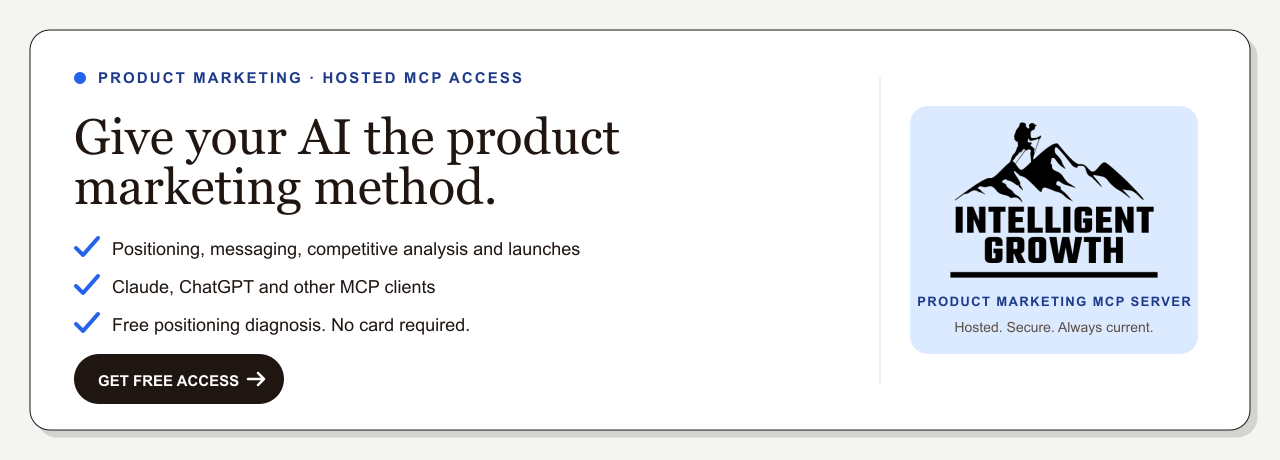
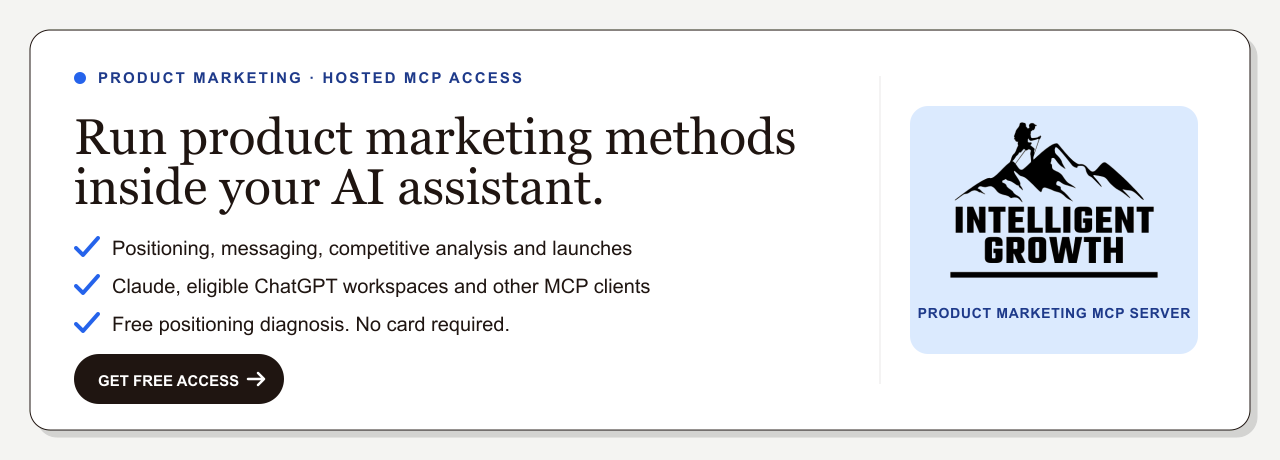
docs: clarify access and protected method boundary

diff --git a/README.md b/README.md
@@ -1,4 +1,4 @@
-# Intelligent Growth Product Marketing MCP Server
+# Intelligent Growth product marketing MCP server
 
 <p align="center">
   <a href="https://intelligentgrowth.app/mcp?utm_source=github&utm_medium=referral&utm_campaign=mcp_public_repo&utm_content=readme_banner">
@@ -14,38 +14,13 @@ Bring the homepage, customer evidence, launch brief or competitor set already on
 
 ## What is a product marketing MCP server?
 
-A product marketing MCP server gives an MCP-compatible AI client tools and context for repeatable product marketing jobs. It lets you ask for a positioning review, messaging hierarchy, competitive analysis or launch brief inside the AI client you already use.
+A product marketing MCP server connects an MCP-compatible AI client to tools and context for repeatable jobs such as positioning reviews, competitive analysis and launch planning.
 
-Intelligent Growth is hosted. You connect to the endpoint, complete the secure sign-in and bring the context for the current job. You do not need to install or operate a local server.
-
-## Hosted connection
-
-```text
-https://mcp.intelligentgrowth.app/mcp
-```
-
-The recommended path is the [guided setup](https://intelligentgrowth.app/mcp/start?job=competitive-gap&utm_source=github&utm_medium=referral&utm_campaign=mcp_public_repo&utm_content=setup_cta), which gives current instructions for each supported client and a starter prompt.
-
-### Claude Desktop
-
-1. Open Customize, then Connectors.
-2. Select +, then Add custom connector. Team and Enterprise owners may need to add it through organisation settings first.
-3. Paste the hosted endpoint.
-4. Complete the secure sign-in.
-
-### Claude Code
-
-```bash
-claude mcp add intelligent-growth --transport http https://mcp.intelligentgrowth.app/mcp
-```
-
-Complete the browser sign-in, then return to Claude Code.
-
-### ChatGPT
-
-Custom MCP setup depends on your current ChatGPT workspace and plan. If your workspace supports custom apps or connectors, add Intelligent Growth with the hosted endpoint and OAuth. The guided setup page keeps the client-specific instructions current.
+Intelligent Growth is hosted. You connect to the endpoint, complete the email access step and bring the context for the current job. You do not need to install or operate a local server.
 
 ## Product marketing jobs
+
+Free access includes the competitive gap workflow and a positioning diagnosis. Full positioning recommendations, messaging reviews and launch workflows require the Intelligent Growth OS membership. Use your membership email during connection and full access loads automatically.
 
 ### Competitive analysis
 
@@ -81,9 +56,36 @@ Use Intelligent Growth to plan this launch. Ask for the product change, audience
 
 See [example jobs](docs/example-jobs.md) for the context to bring and the output to expect.
 
+## Hosted connection
+
+The recommended path is the [guided setup](https://intelligentgrowth.app/mcp/start?job=competitive-gap&utm_source=github&utm_medium=referral&utm_campaign=mcp_public_repo&utm_content=setup_cta), which gives current instructions for each supported client and a starter prompt.
+
+```text
+https://mcp.intelligentgrowth.app/mcp
+```
+
+### Claude Desktop
+
+1. Open Customize, then Connectors.
+2. Select +, then Add custom connector. Team and Enterprise owners may need to add it through organisation settings first.
+3. Paste the hosted endpoint.
+4. Complete the email access step.
+
+### Claude Code, manual setup
+
+```bash
+claude mcp add intelligent-growth --transport http https://mcp.intelligentgrowth.app/mcp
+```
+
+Complete the browser access step, then return to Claude Code.
+
+### ChatGPT
+
+Custom MCP setup depends on your current ChatGPT workspace and plan. If your workspace supports custom apps or connectors, add Intelligent Growth with the hosted endpoint and OAuth. The guided setup page keeps the client-specific instructions current.
+
 ## What comes back
 
-Each completed job is designed to return:
+Each completed job returns:
 
 - One clear recommendation.
 - Reasoning tied to the context you supplied.
@@ -103,7 +105,7 @@ This public companion repository includes:
 - Troubleshooting, privacy and security guidance.
 - A clear description of the hosted product boundary.
 
-The server implementation and protected method files are not distributed here. Your AI client receives the applied result for the job you asked it to do.
+This is the public companion for the hosted product. Your AI client receives the applied result for the job you asked it to do.
 
 ## How the boundary works
 
@@ -125,7 +127,7 @@ Read the [public architecture note](docs/architecture.md) for more detail.
 
 ## Privacy
 
-Product analytics record safe events such as connection, method, access tier, client, outcome and broad error category. They do not record prompts, outputs, email addresses, credentials, company text or full URLs.
+Product analytics record safe events such as connection, method, access tier, client and outcome. They do not record prompts, outputs, email addresses, credentials, company text or full URLs.
 
 Read the current [privacy policy](https://intelligentgrowth.app/privacy) and [terms](https://intelligentgrowth.app/terms).
 
@@ -133,7 +135,7 @@ Read the current [privacy policy](https://intelligentgrowth.app/privacy) and [te
 
 ### Do I need to install a local server?
 
-No. Intelligent Growth is hosted. Connect your compatible AI client to the endpoint and complete the secure sign-in.
+No. Use the hosted endpoint above.
 
 ### Can I use it with Claude and ChatGPT?
 
@@ -147,13 +149,9 @@ The public starting jobs cover competitive analysis, positioning, messaging and 
 
 The result can explain the relevant principles, show the reasoning behind its recommendation and make assumptions visible. It should help you understand and challenge the work, not only hand back an answer.
 
-### Can I ask it to export its source material?
-
-No. Intelligent Growth is designed for applied product marketing work. It does not provide bulk source reproduction, method-file export or server implementation access.
-
 ### Does analytics record my prompt or output?
 
-No. Product analytics are designed to record safe usage events, not prompt text, output text, credentials, email addresses or company content.
+No. The [Privacy](#privacy) section above lists the exact boundary.
 
 ## Support
 

diff --git a/docs/architecture.md b/docs/architecture.md
@@ -36,7 +36,7 @@ Safe product events may include:
 - Anonymous connection.
 - Method and access tier.
 - Supported client category.
-- Success or broad error category.
+- Success or failure outcome.
 - First result and repeat-use milestones.
 
 Events do not include prompts, outputs, email addresses, credentials, company text or full URLs.